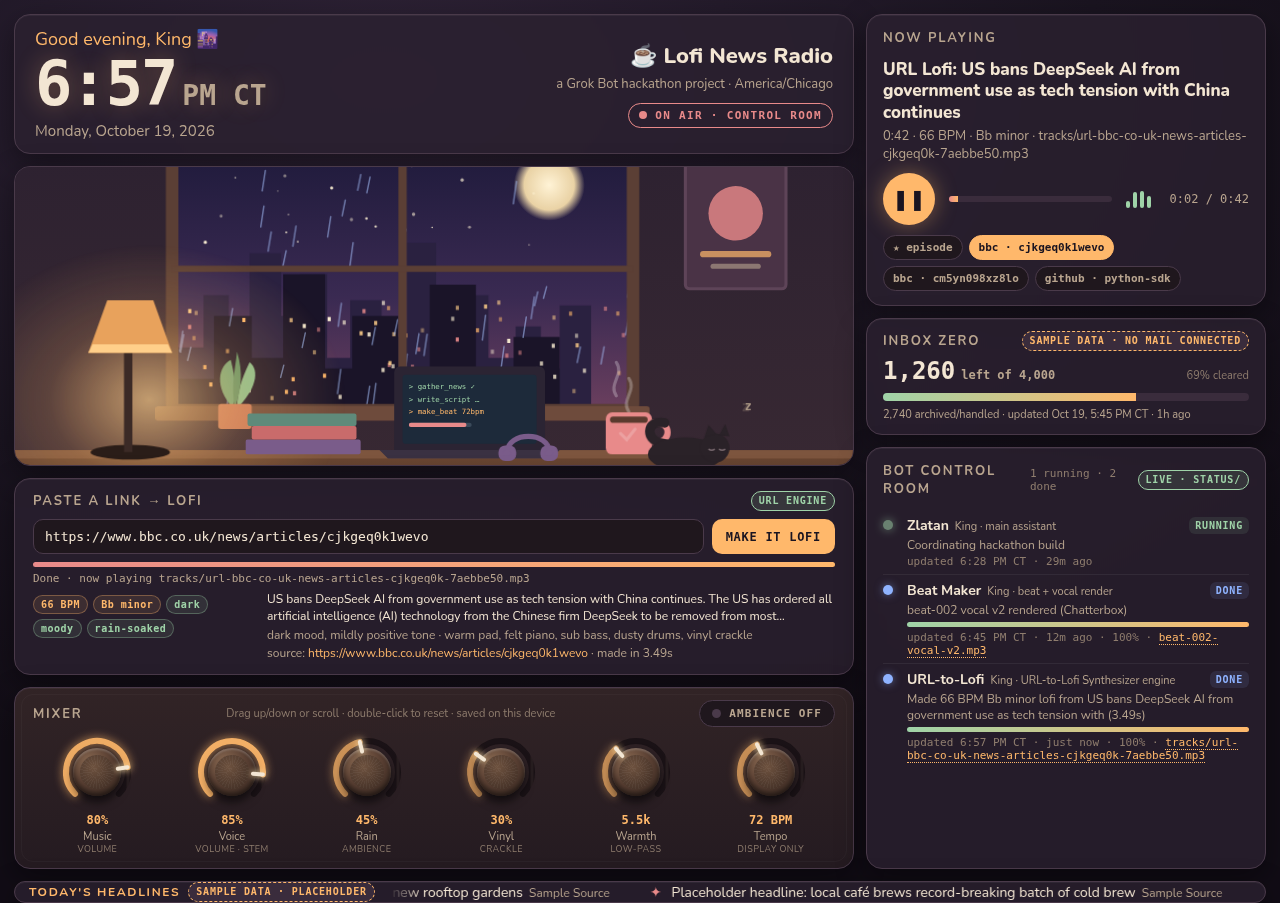
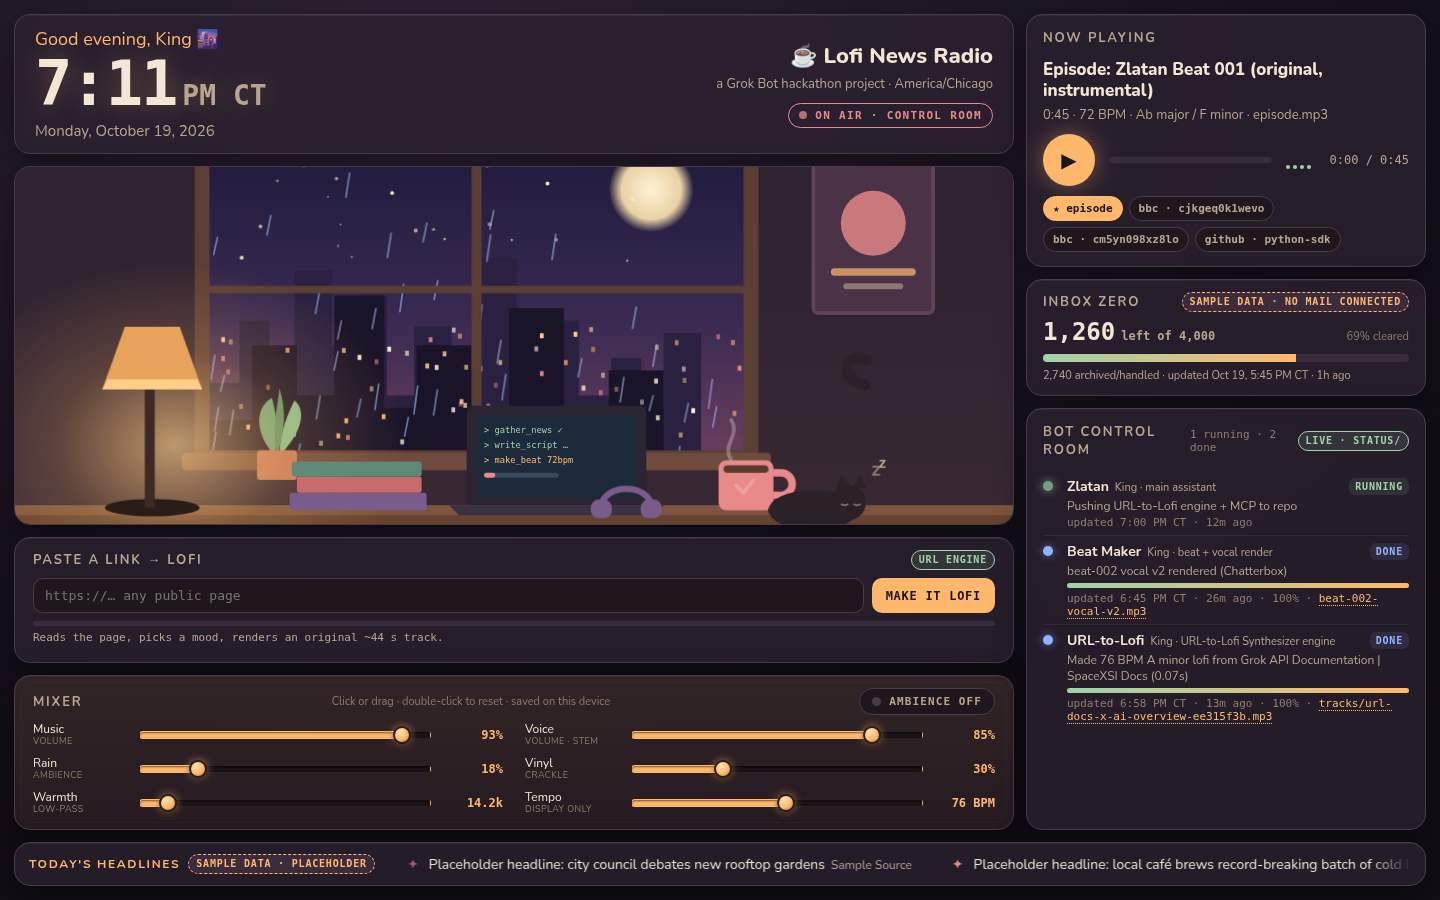
Replace mixer knobs with horizontal sliders.
The paste-a-link box still calls /api on the repo-root server, and new tracks play from /tracks/.

diff --git a/dashboard/index.html b/dashboard/index.html
@@ -126,24 +126,23 @@
   .mixer{padding:12px 18px 14px; background:linear-gradient(180deg,#3a2a2acc,#2a1f24cc); position:relative}
   .mixer::before{content:""; position:absolute; inset:6px; border-radius:12px; border:1px solid #ffffff08; pointer-events:none}
   .mixer .head{margin-bottom:8px}
-  .knobs{display:grid; grid-template-columns:repeat(6,1fr); gap:6px}
-  .knob{display:flex; flex-direction:column; align-items:center; gap:4px; user-select:none; touch-action:none}
-  .knob .dial{position:relative; width:74px; height:74px; cursor:ns-resize; outline:none; border-radius:50%}
-  .knob .dial:focus-visible{box-shadow:0 0 0 2px var(--amber)}
-  .knob svg{position:absolute; inset:0; overflow:visible}
-  .knob .track{fill:none; stroke:#1a1216; stroke-width:6; stroke-linecap:round}
-  .knob .lvl{fill:none; stroke:var(--amber); stroke-width:6; stroke-linecap:round; filter:drop-shadow(0 0 5px #ffb86bcc)}
-  .knob .cap{position:absolute; inset:13px; border-radius:50%;
-    background: radial-gradient(circle at 35% 30%, #8a6a52 0%, #5a4033 45%, #2e211c 100%);
-    box-shadow: 0 6px 10px #0009, inset 0 2px 2px #ffffff30, inset 0 -3px 5px #0007;}
-  .knob .cap::after{content:""; position:absolute; inset:7px; border-radius:50%;
-    background: repeating-conic-gradient(#ffffff0a 0 4deg, #0000 4deg 12deg), radial-gradient(circle at 40% 35%, #6e523f, #3b2a22)}
-  .knob .ptr{position:absolute; left:50%; top:4px; width:4px; height:14px; margin-left:-2px; border-radius:2px;
-    background:var(--ink); box-shadow:0 0 6px #ffe6b0; z-index:2}
-  .knob .rot{position:absolute; inset:0; z-index:2}
-  .knob .val{font:700 12px var(--mono); color:var(--amber); min-height:14px}
-  .knob .lbl{font-size:11px; color:var(--muted); text-align:center; line-height:1.15}
-  .knob .lbl small{display:block; font-size:9px; color:#8f7d6e; letter-spacing:.05em; text-transform:uppercase}
+  .sliders{display:grid; grid-template-columns:1fr 1fr; gap:10px 22px}
+  .sl{display:grid; grid-template-columns:96px 1fr 62px; align-items:center; gap:10px}
+  .sl .lbl{font-size:12px; color:var(--ink); line-height:1.1}
+  .sl .lbl small{display:block; font-size:9px; color:#8f7d6e; letter-spacing:.05em; text-transform:uppercase}
+  .sl .val{font:700 12px var(--mono); color:var(--amber); text-align:right; white-space:nowrap}
+  .sl input[type=range]{--f:50%; -webkit-appearance:none; appearance:none; width:100%; height:24px; margin:0; background:transparent; cursor:pointer}
+  .sl input[type=range]:focus{outline:none}
+  .sl input[type=range]::-webkit-slider-runnable-track{height:8px; border-radius:6px; border:1px solid #ffffff10;
+    background:linear-gradient(90deg,var(--amber) 0 var(--f),#1a1216 var(--f) 100%); box-shadow:inset 0 1px 2px #0008}
+  .sl input[type=range]::-webkit-slider-thumb{-webkit-appearance:none; appearance:none; width:18px; height:18px; margin-top:-6px; border-radius:50%;
+    background:radial-gradient(circle at 35% 30%,#ffe6b0,var(--amber) 55%,#b9782f); border:2px solid #2a1f24; box-shadow:0 0 8px #ffb86b99, 0 2px 4px #0009; transition:transform .1s}
+  .sl input[type=range]:hover::-webkit-slider-thumb{transform:scale(1.12)}
+  .sl input[type=range]:focus-visible::-webkit-slider-thumb{box-shadow:0 0 0 3px #ffb86b66, 0 0 8px #ffb86b99}
+  .sl input[type=range]::-moz-range-track{height:8px; border-radius:6px; background:#1a1216; border:1px solid #ffffff10}
+  .sl input[type=range]::-moz-range-progress{height:8px; border-radius:6px; background:var(--amber)}
+  .sl input[type=range]::-moz-range-thumb{width:18px; height:18px; border-radius:50%; background:radial-gradient(circle at 35% 30%,#ffe6b0,var(--amber) 55%,#b9782f);
+    border:2px solid #2a1f24; box-shadow:0 0 8px #ffb86b99}
   .toggle{display:inline-flex; align-items:center; gap:8px; cursor:pointer; border:1px solid var(--line); background:#1f171d;
     color:var(--muted); font:700 11px var(--mono); letter-spacing:.1em; text-transform:uppercase; padding:6px 12px; border-radius:999px}
   .toggle i{width:9px; height:9px; border-radius:50%; background:#4a3a4a}
@@ -158,7 +157,7 @@
   .inbox .pbar{height:8px; border-radius:6px; background:#3a2c3c; overflow:hidden; margin-top:8px}
   .inbox .pbar>div{height:100%; background:linear-gradient(90deg,var(--sage),var(--amber)); width:0; transition:width .6s}
   .inbox .meta{color:var(--muted); font-size:11px; margin-top:6px}
-  @media (max-width: 980px){ .knobs{grid-template-columns:repeat(3,1fr)} }
+  @media (max-width: 640px){ .sliders{grid-template-columns:1fr} }
 
   /* Control room (status protocol) */
   .tag.live{background:#9fd3a822; color:var(--sage); border:1px solid var(--sage)}
@@ -355,10 +354,10 @@
     <section class="card mixer" aria-label="Mixer">
       <div class="head">
         <h2>Mixer</h2>
-        <span class="mixnote" id="mixNote">Drag up/down or scroll · double-click to reset · saved on this device</span>
+        <span class="mixnote" id="mixNote">Click or drag · double-click to reset · saved on this device</span>
         <button class="toggle" id="ambBtn" aria-pressed="false"><i></i>Ambience off</button>
       </div>
-      <div class="knobs" id="knobs"></div>
+      <div class="sliders" id="sliders"></div>
     </section>
   </div>
 
@@ -656,7 +655,7 @@ audioEl.addEventListener('play',()=>{ ensureAudio(); if(hasVoice){ voiceEl.curre
 audioEl.addEventListener('pause',()=>{ if(hasVoice) voiceEl.pause(); });
 audioEl.addEventListener('seeked',()=>{ if(hasVoice) voiceEl.currentTime=audioEl.currentTime; });
 
-/* ---------- Knobs ---------- */
+/* ---------- Mixer sliders ---------- */
 const KNOBS=[
   {id:'music',  label:'Music',   sub:'volume',      min:0,  max:100, def:80, fmt:v=>`${Math.round(v)}%`},
   {id:'voice',  label:'Voice',   sub:'volume · stem', min:0,  max:100, def:85, fmt:v=>`${Math.round(v)}%`},
@@ -669,9 +668,6 @@ const LS='lofiDashMixer.v1';
 const state=Object.assign(Object.fromEntries(KNOBS.map(k=>[k.id,k.def])), JSON.parse(localStorage.getItem(LS)||'{}'));
 function cutoff(v){ return 18000*Math.pow(600/18000, v/100); } // 0% = open (18 kHz) -> 100% = very warm (600 Hz)
 const save=()=>localStorage.setItem(LS,JSON.stringify(state));
-const SWEEP=270, START=-135, R=31, C=37;
-function arc(a0,a1){ const p=a=>{const r=(a-90)*Math.PI/180; return [C+R*Math.cos(r), C+R*Math.sin(r)];};
-  const [x0,y0]=p(a0),[x1,y1]=p(a1); return `M${x0} ${y0} A${R} ${R} 0 ${a1-a0>180?1:0} 1 ${x1} ${y1}`; }
 function applyAll(){
   if(!AE.ctx) return; const t=AE.ctx.currentTime, g=v=>Math.pow(v/100,2);
   AE.music.gain.setTargetAtTime(g(state.music),t,0.05);
@@ -681,26 +677,20 @@ function applyAll(){
   AE.warmth.frequency.setTargetAtTime(cutoff(state.warmth),t,0.05);
   AE.amb.gain.setTargetAtTime(ambOn?1:0,t,0.3);
 }
-const knobBox=$('knobs');
+const sliderBox=$('sliders');
 KNOBS.forEach(k=>{
-  const w=document.createElement('div'); w.className='knob';
-  w.innerHTML=`<div class="dial" tabindex="0" role="slider" aria-label="${k.label} ${k.sub}" aria-valuemin="${k.min}" aria-valuemax="${k.max}">
-      <svg viewBox="0 0 74 74"><path class="track" d="${arc(START,START+SWEEP)}"/><path class="lvl"/></svg>
-      <div class="cap"></div><div class="rot"><div class="ptr"></div></div></div>
-    <div class="val"></div><div class="lbl">${k.label}<small>${k.sub}</small></div>`;
-  knobBox.appendChild(w);
-  const dial=w.querySelector('.dial'), lvl=w.querySelector('.lvl'), rot=w.querySelector('.rot'), val=w.querySelector('.val');
-  const render=()=>{ const f=(state[k.id]-k.min)/(k.max-k.min), a=START+f*SWEEP;
-    lvl.setAttribute('d', f>0.002?arc(START,a):''); rot.style.transform=`rotate(${a}deg)`;
-    lvl.style.strokeOpacity = .45+.55*f; val.textContent=k.fmt(state[k.id]); dial.setAttribute('aria-valuenow',Math.round(state[k.id])); };
-  const set=v=>{ v=Math.min(k.max,Math.max(k.min,v)); if(k.step) v=Math.round(v/k.step)*k.step; state[k.id]=v; render(); save(); applyAll(); };
-  let dragY=null, startV=0;
-  dial.addEventListener('pointerdown',e=>{ dragY=e.clientY; startV=state[k.id]; dial.setPointerCapture(e.pointerId); e.preventDefault(); });
-  dial.addEventListener('pointermove',e=>{ if(dragY===null) return; const range=k.max-k.min; set(startV+(dragY-e.clientY)/(e.shiftKey?600:180)*range); });
-  dial.addEventListener('pointerup',()=>dragY=null); dial.addEventListener('pointercancel',()=>dragY=null);
-  dial.addEventListener('wheel',e=>{ e.preventDefault(); set(state[k.id]+(e.deltaY<0?1:-1)*(k.max-k.min)/50); },{passive:false});
-  dial.addEventListener('keydown',e=>{ const s=(k.max-k.min)/50; if(['ArrowUp','ArrowRight'].includes(e.key)){set(state[k.id]+s);e.preventDefault();} if(['ArrowDown','ArrowLeft'].includes(e.key)){set(state[k.id]-s);e.preventDefault();} });
-  dial.addEventListener('dblclick',()=>set(k.def));
+  const w=document.createElement('div'); w.className='sl';
+  const step=k.step||1;
+  w.innerHTML=`<label class="lbl" for="sl-${k.id}">${k.label}<small>${k.sub}</small></label>
+    <input type="range" id="sl-${k.id}" min="${k.min}" max="${k.max}" step="${step}" aria-label="${k.label} ${k.sub}" title="Double-click to reset to ${k.fmt(k.def)}">
+    <span class="val"></span>`;
+  sliderBox.appendChild(w);
+  const inp=w.querySelector('input'), val=w.querySelector('.val');
+  const render=()=>{ const f=(state[k.id]-k.min)/(k.max-k.min); inp.value=state[k.id];
+    inp.style.setProperty('--f',(f*100).toFixed(2)+'%'); val.textContent=k.fmt(state[k.id]); inp.setAttribute('aria-valuetext',k.fmt(state[k.id])); };
+  const set=v=>{ v=Math.min(k.max,Math.max(k.min,+v)); if(k.step) v=Math.round(v/k.step)*k.step; state[k.id]=v; render(); save(); applyAll(); };
+  inp.addEventListener('input',()=>set(inp.value));
+  inp.addEventListener('dblclick',()=>set(k.def));
   render();
 });
 let ambOn=false;

diff --git a/README.md b/README.md
@@ -14,7 +14,7 @@ Built by King Simmons with his Grok Bot, Zlatan. PRD by Jonathan Chen, *URL-to-L
 
 | path | what |
 |---|---|
-| `dashboard/index.html` | Control room: clock, CSS lofi scene, player, Web Audio mixer, bot panel, paste-a-link box |
+| `dashboard/index.html` | Control room: clock, CSS lofi scene, player, Web Audio mixer sliders, bot panel, paste-a-link box |
 | `dashboard/botstatus.py` | Stdlib status CLI. Writes repo-root `status/` and `dashboard/tracks.json` |
 | `dashboard/status` | Symlink to `../status`, so the page's relative `status/index.json` fetch works |
 | `dashboard/*.json` | Sample headlines, inbox, and episode data |
